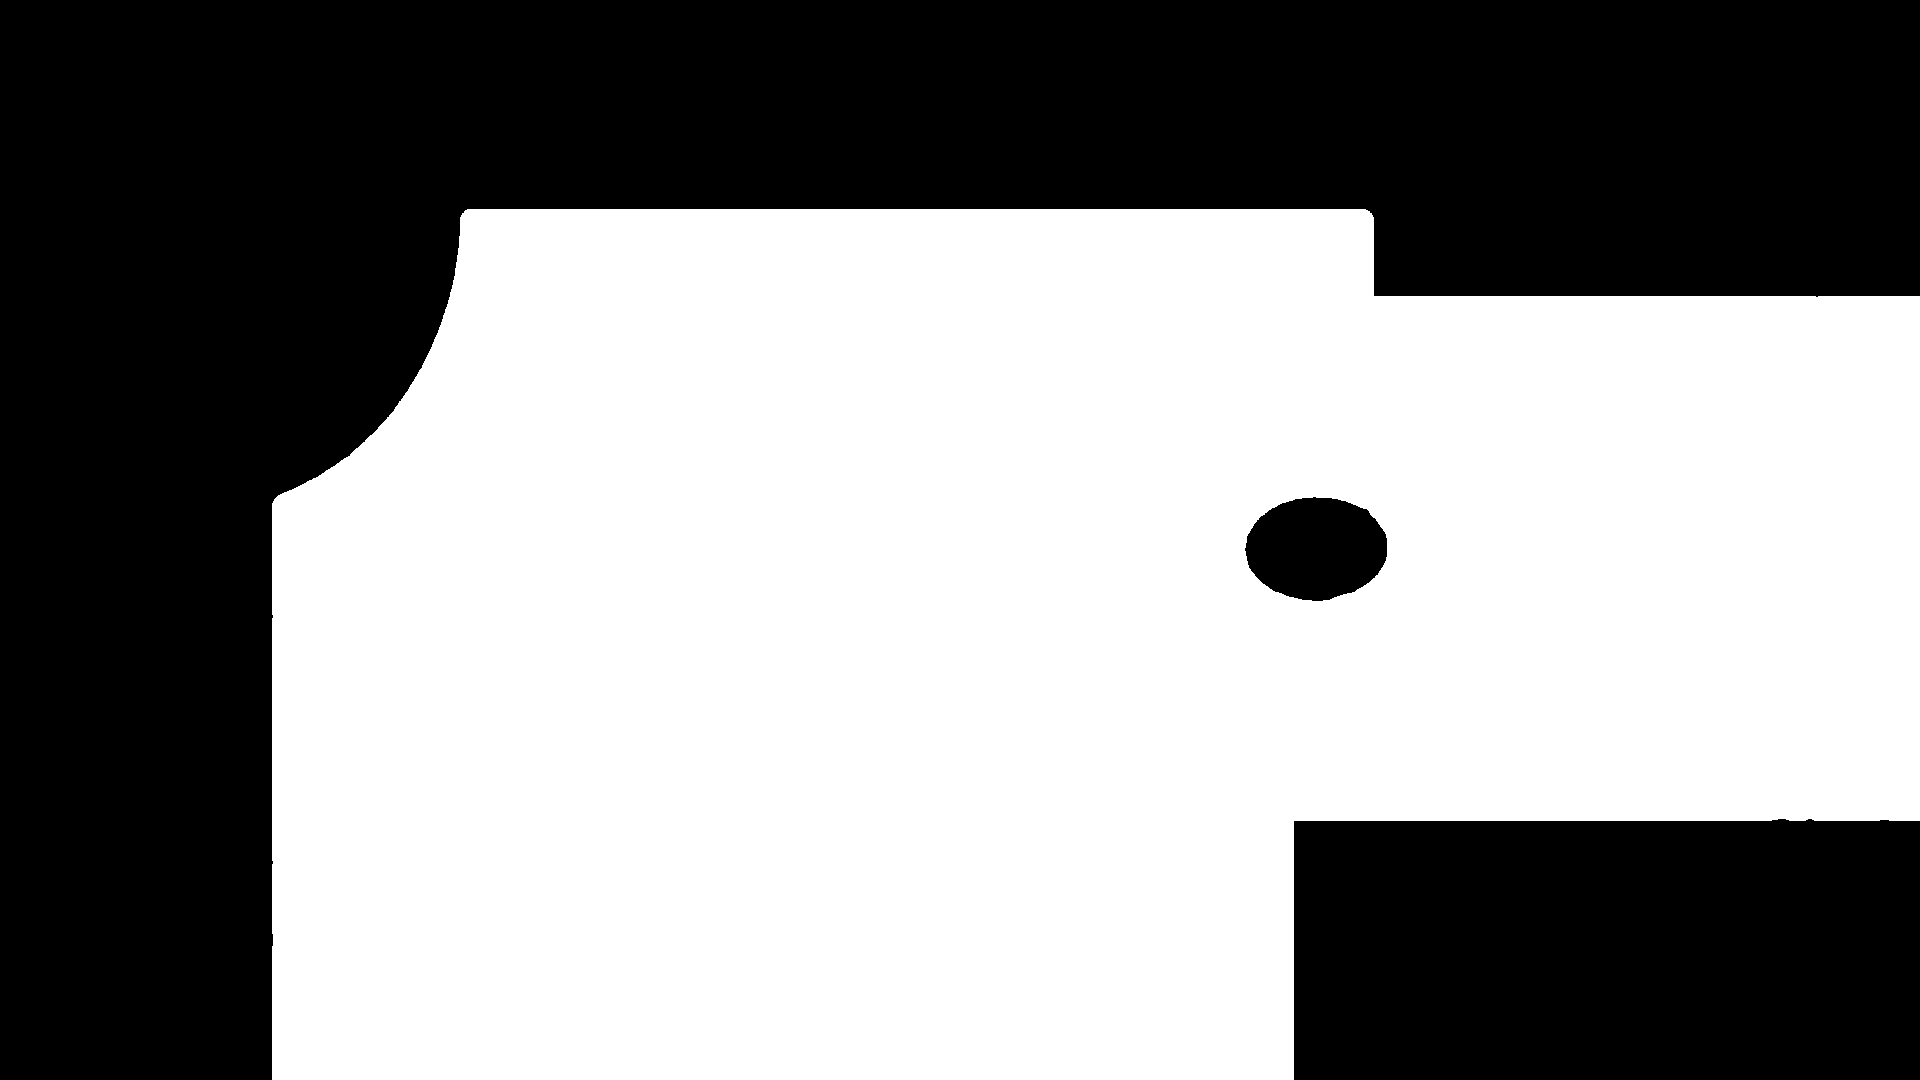
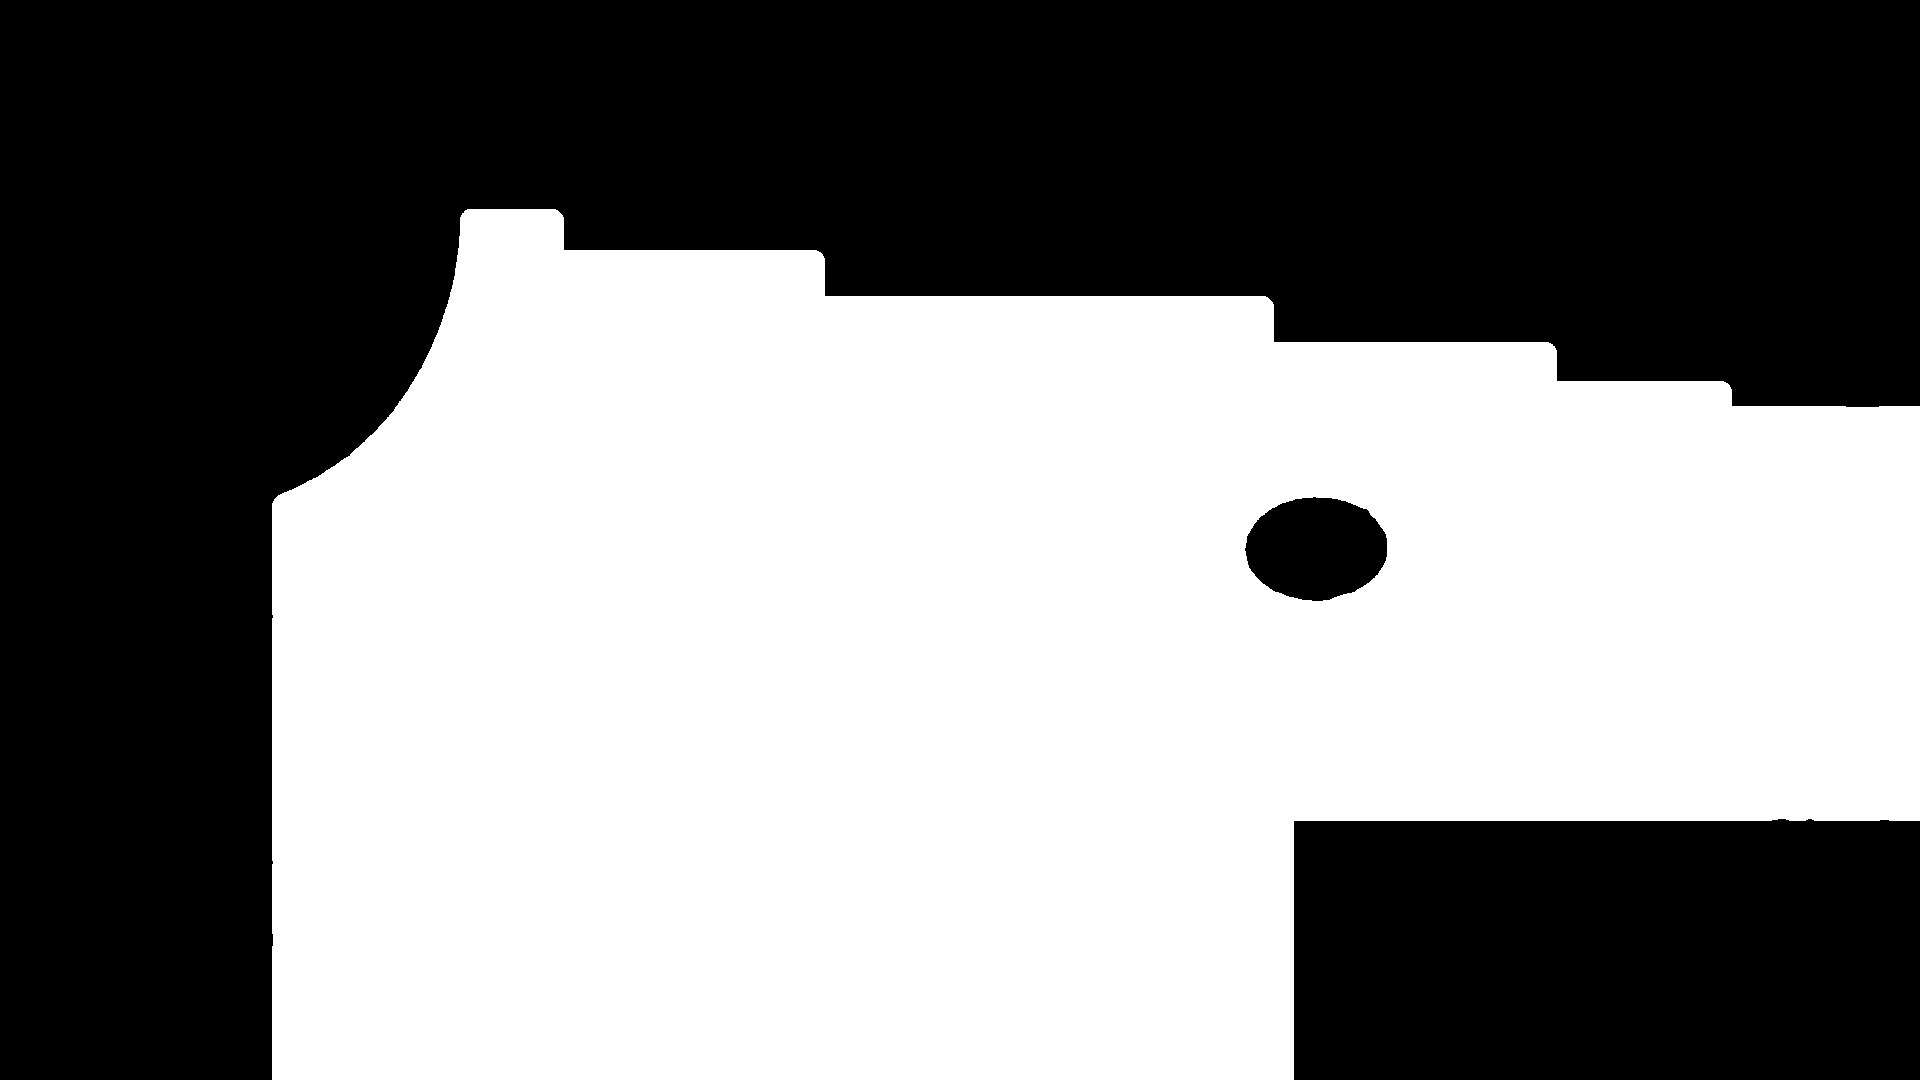
update mask

Changed region(s): [[0.2812, 0.1833, 1.0, 0.3972]]

diff --git a/utils.py b/utils.py
@@ -8,7 +8,7 @@ def print_err(out):
     print(out, file=sys.stderr)
 
 
-def crop_and_resize_frame(frame, crop_dimensions=(175, 1080, 250, 1920)):
+def crop_and_resize_frame(frame, crop_dimensions=(200, 1080, 250, 1920)):
     """ Crop unimportant parts of frame, then resizes. Default crop detects people
 
     Arguments:

diff --git a/binarize.py b/binarize.py
@@ -13,6 +13,7 @@ if __name__ == "__main__":
     frame_gray = cv2.GaussianBlur(frame_gray, (21, 21), 0)
     im_mask = cv2.threshold(frame_gray, 0, 255, cv2.THRESH_BINARY)[1]
     cv2.imwrite("mask.png", im_mask)
+    exit()
 
     # Apply mask to sample image
     sample = cv2.imread(sample_file)
